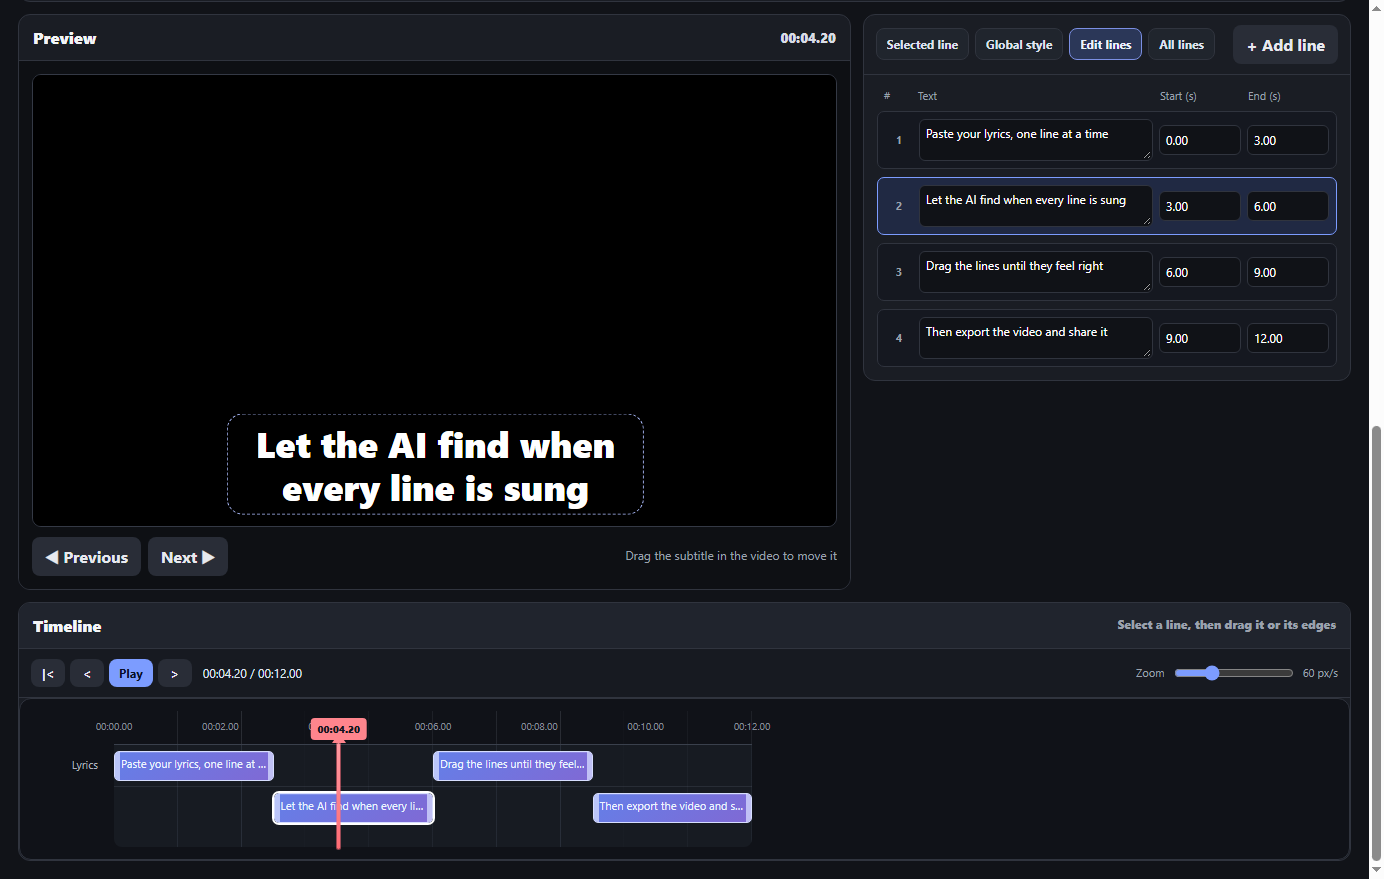
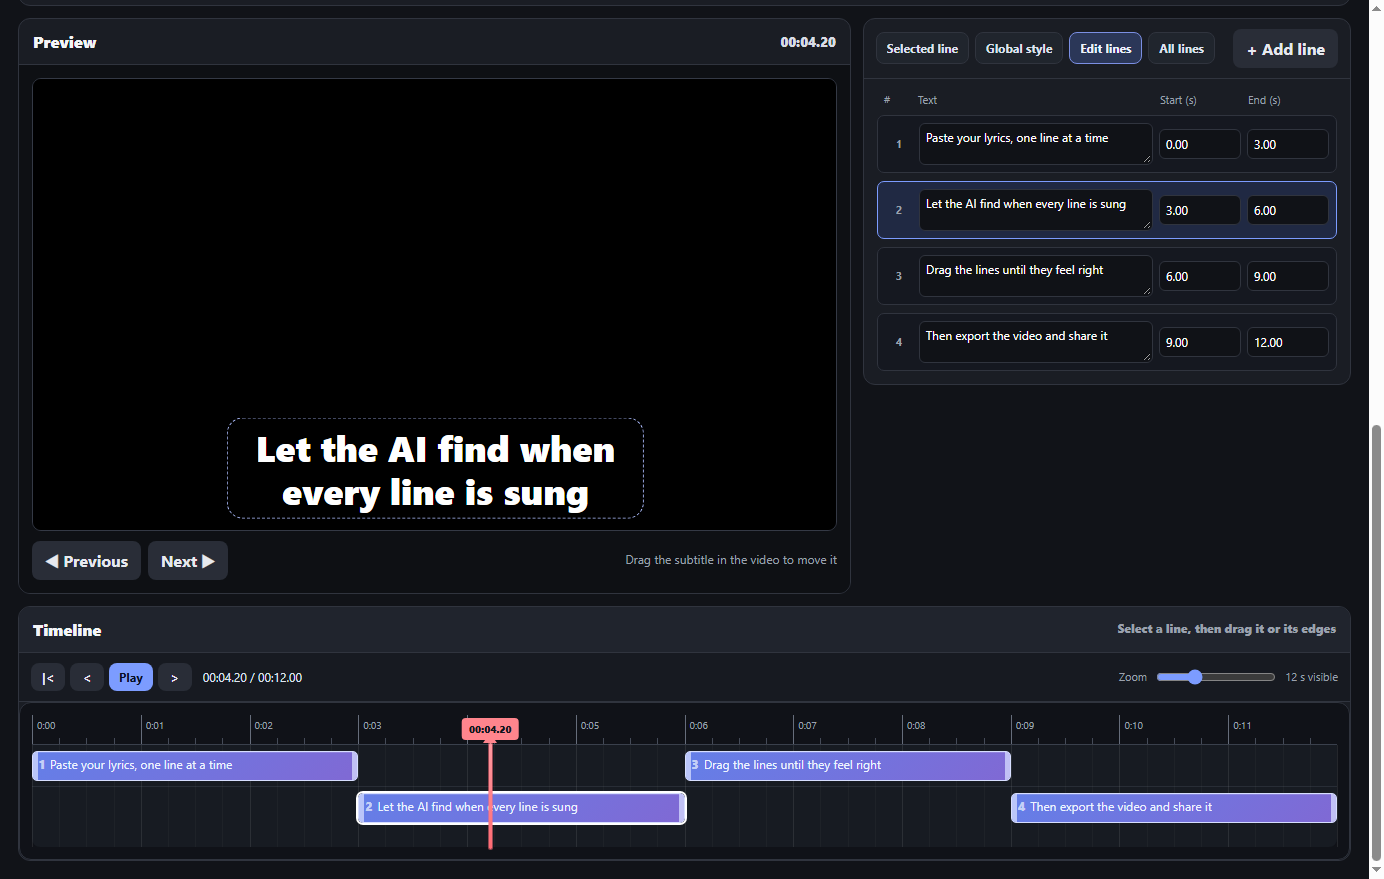
Describe the new timeline in the README and correct the guide

Changed region(s): [[0.0311, 0.0, 0.9632, 0.43], [0.0, 0.7065, 0.9632, 0.9522], [0.0311, 0.4915, 0.6214, 0.6758]]

diff --git a/README.md b/README.md
@@ -21,7 +21,7 @@ It is free and needs no account. Your video or song never leaves your device: th
 | | Time with AI | Tap along | Split evenly |
 |---|---|---|---|
 | What you do | wait | listen once and hold a button during each line | set every time yourself |
-| How exact | good with clear vocals; check the lines it reports | as exact as your timing | not at all until you edit |
+| How exact | good with clear vocals; check the orange lines | as exact as your timing | not at all until you edit |
 | Best for | a computer | a phone or a computer | a short song, or a rough start |
 | How long | several minutes, more on a slow computer | as long as the song | a moment, then your own work |
 
@@ -30,8 +30,8 @@ It is free and needs no account. Your video or song never leaves your device: th
 1. Click **Time with AI**.
 2. The first time, the browser downloads the timing model (about 300 MB) and shows the progress. After that it is kept, and later runs start right away.
 3. The AI listens to the whole song. The status line shows how far it is and about how many minutes are left. You can keep using the page, but leave the tab open.
-4. When it is done, all lines are on the timeline. If the status line says *"The AI was not sure about lines 12, 47…"*, check those lines first.
-5. Play the video and fix any line that is off (step 3 below).
+4. When it is done, all lines are on the timeline. If the status line says *"The AI was not sure about lines 12, 47…"*, those lines are orange on the timeline. Check them first.
+5. Play the video and fix any line that is off (step 3 below). An orange line turns back to normal when you change its times, or when you click **The times are right** in **Selected line**.
 
 For better results with AI-made songs: if your song tool (for example Suno) gives you the vocals as a separate file, open **Have the vocals as a separate file?** and choose it. The AI then listens to the voice only, and the video still uses the full song.
 
@@ -60,13 +60,24 @@ Good to know:
 
 ### 3. Check and fix
 
-Play the video and watch the subtitles. To fix a line:
+Play the video and watch the subtitles.
 
-- **Move it in time:** drag it on the timeline, or drag its left or right edge to change when it starts or ends.
+To find your way on the timeline:
+
+- Each line shows its number, the same number as in **All lines** and in the AI's messages.
+- When you select a line, or click **Previous** / **Next**, the timeline scrolls to it.
+- Click or drag along the time scale at the top of the timeline to move through the song.
+- The mouse wheel scrolls the timeline sideways. To zoom in and out, use **Zoom**, Ctrl + wheel (Cmd + wheel on a Mac) or pinch on a touchpad.
+- To hear one line again, click **Play line** in **All lines**.
+
+To fix a line:
+
+- **Move it in time:** drag it on the timeline, or drag its left or right edge to change when it starts or ends. An edge snaps to the playhead and to the edges of the other lines when it comes close. So the easiest way to set an end: pause the video where the line should end, then drag the right edge to the playhead. Hold Alt to drag without snapping.
 - **Exact times:** in **Selected line**, type the start and end, or click **Start here** / **End here** at the current video position.
+- **Many lines at once:** **Edit lines** shows every line with its text, start and end, so you can type them in one list.
 - **Position on the screen:** drag the subtitle in the preview.
 - **Text, size and width:** in **Selected line**. Colors, outline and a background box for all lines: in **Global style**.
-- **Split**, **Delete** and **+ Add line** change the lines. **Undo** takes back any change.
+- **Split** (in **All lines**) cuts a line in two, **Delete line** (in **Selected line**) removes it, and **+ Add line** adds a new one at the playhead. **Undo** takes back any change.
 
 ### 4. Export the video
 
@@ -79,7 +90,7 @@ Everything except the video file is saved in the browser automatically. If you c
 ### On a phone
 
 - **Tap along** is the easiest way on a phone. The big button is made for a thumb.
-- To edit on the timeline, first tap a line to select it, then drag it or its edges. Swiping over lines that are not selected scrolls the timeline.
+- The timeline is right under the video. To edit on it, first tap a line to select it, then drag it or its edges. Swiping over lines that are not selected scrolls the timeline. Drag along the time scale at its top to move through the song.
 - **Time with AI** also works, but it downloads 300 MB and is slow on a phone.
 - Exporting a long video on a phone can be slow or run out of memory. If that happens, save the project, open it on a computer, and export there.
 
@@ -90,10 +101,12 @@ Everything except the video file is saved in the browser automatically. If you c
 | Space | Play or pause |
 | ← / → | Previous or next line |
 | Shift + ← / → | Move 1 second back or forward |
-| Delete | Delete the selected line |
+| Delete or Backspace | Delete the selected line |
 | Space or Enter (hold) | During Tap along: the line is being sung |
 | Esc | During Tap along: stop |
 | Ctrl+Z / Ctrl+Y | Undo or redo |
+| Ctrl + mouse wheel | Zoom the timeline (with the pointer over it) |
+| Alt (hold while dragging) | Drag a line or edge without snapping |
 
 ## How it works
 
